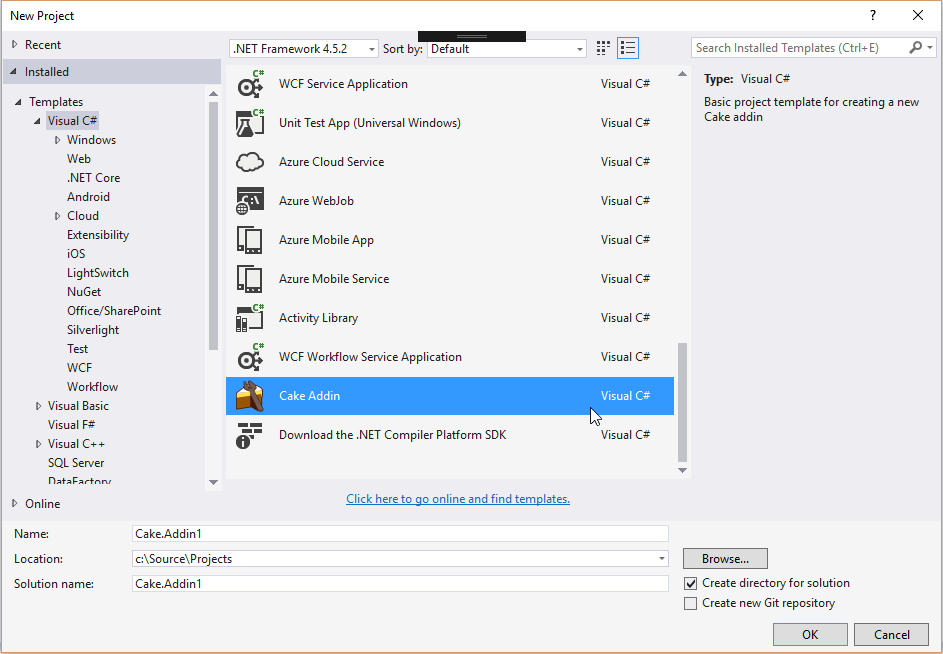
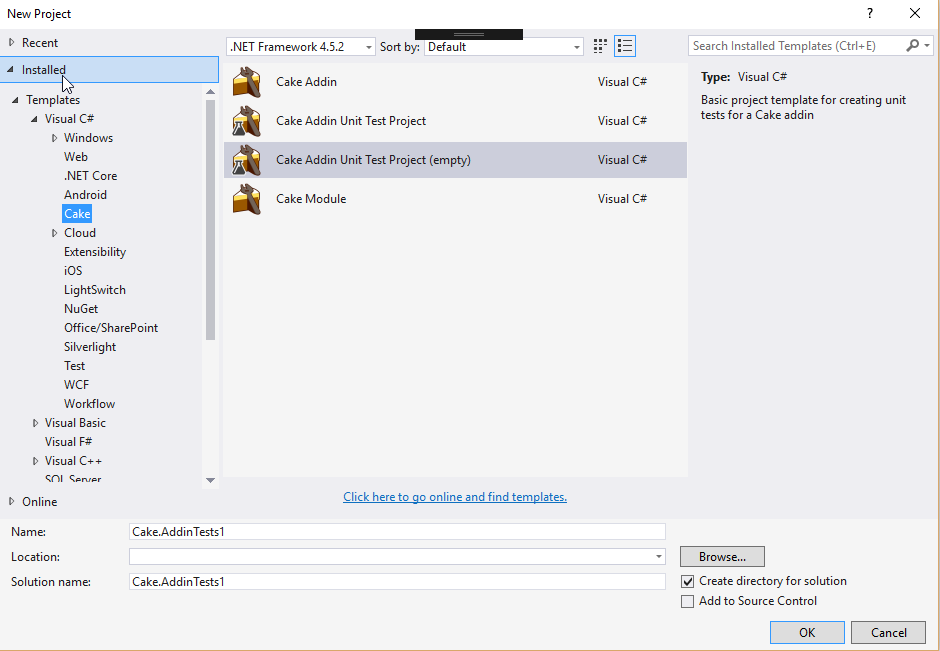
Update README + screenshots for new proj template

diff --git a/README.md b/README.md
@@ -54,7 +54,7 @@ Choose Cake Build from the Build menu to quickly install the default bootstrappe
 
 ## Templates
 
-The extension includes an item template for build scripts and a project template for Cake addins.
+The extension includes an item template for build scripts and project templates for Cake modules, addins, and unit tests.
 
 ![Project Template](art/templates.png)
 
